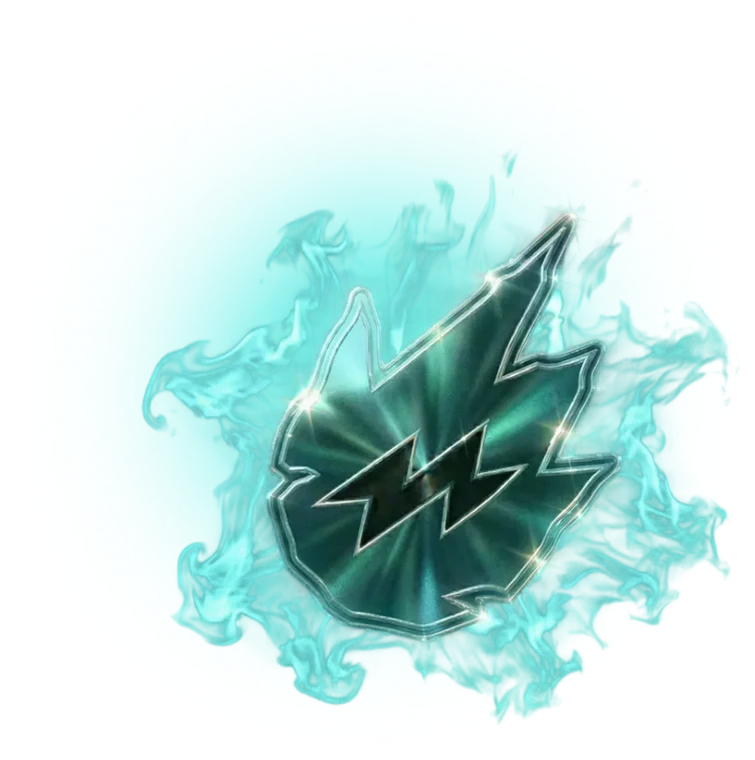
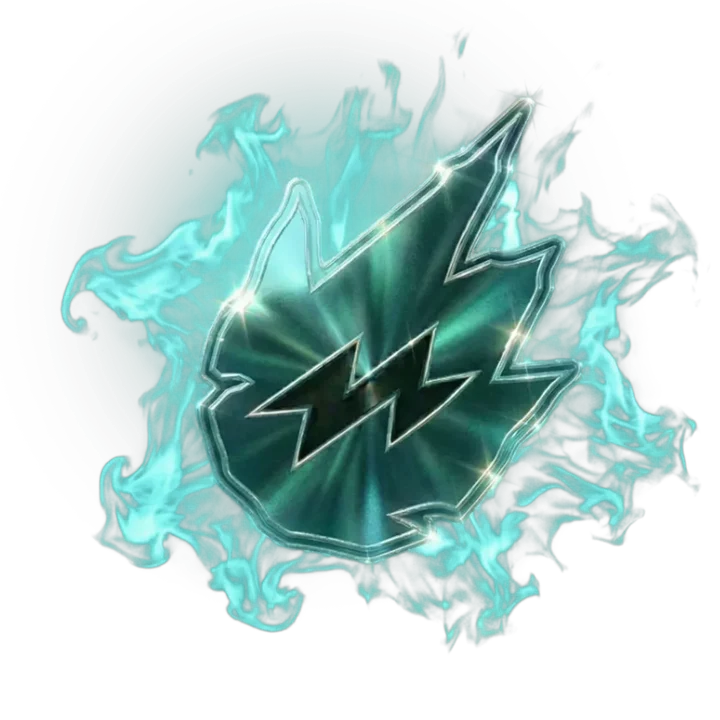
Экраны наград: пульсирующее свечение вместо огня, эмблема по центру

diff --git a/src/components/Glow.module.css b/src/components/Glow.module.css
@@ -1,0 +1,73 @@
+.glow {
+  position: absolute;
+  left: 50%;
+  top: 50%;
+  width: min(440px, 112%);
+  aspect-ratio: 1;
+  translate: -50% -50%;
+  pointer-events: none;
+}
+
+/* мягкий бирюзовый ореол, дышит */
+.core {
+  position: absolute;
+  inset: 0;
+  border-radius: 50%;
+  background: radial-gradient(closest-side, color-mix(in srgb, var(--accent) 62%, transparent), color-mix(in srgb, var(--accent) 22%, transparent) 48%, transparent 74%);
+  animation:
+    appear 700ms cubic-bezier(0.23, 1, 0.32, 1) both,
+    breathe 2.4s ease-in-out 700ms infinite alternate;
+}
+
+@keyframes appear {
+  from {
+    opacity: 0;
+    scale: 0.6;
+  }
+}
+
+@keyframes breathe {
+  from {
+    opacity: 0.65;
+    scale: 0.92;
+  }
+  to {
+    opacity: 1;
+    scale: 1.06;
+  }
+}
+
+/* одна вспышка в момент появления награды */
+.flash {
+  position: absolute;
+  inset: 22%;
+  border-radius: 50%;
+  background: radial-gradient(closest-side, #fff, color-mix(in srgb, var(--accent) 60%, transparent) 45%, transparent);
+  opacity: 0;
+  animation: flash 900ms cubic-bezier(0.23, 1, 0.32, 1) 120ms both;
+}
+
+@keyframes flash {
+  0% {
+    opacity: 0;
+    scale: 0.4;
+  }
+  18% {
+    opacity: 0.9;
+  }
+  100% {
+    opacity: 0;
+    scale: 2.2;
+  }
+}
+
+@media (prefers-reduced-motion: reduce) {
+  .core,
+  .flash {
+    animation: none;
+  }
+
+  .flash {
+    display: none;
+  }
+}

diff --git a/src/screens/Games/Result.tsx b/src/screens/Games/Result.tsx
@@ -1,7 +1,8 @@
 import { useEffect, useRef, useState } from 'react'
 import { useNavigate } from 'react-router'
 import { Button } from '../../components/Button'
-import { Fire, type FireState } from '../../components/Fire'
+import { type FireState } from '../../components/Fire'
+import { Glow } from '../../components/Glow'
 import { Icon } from '../../components/Icon'
 import { LiquidBar } from '../../components/LiquidBar'
 import { Rewards } from '../../components/Rewards'
@@ -47,7 +48,7 @@ export function Result({ game, run, onAgain }: Props) {
   return (
     <main ref={root} className={s.screen} data-win={win || undefined}>
       <div className={s.stage}>
-        {win && <Fire state={fire} className={s.fire} />}
+        {win && <Glow />}
         <img ref={art} className={s.art} src={win ? '/assets/rewards/emblem.webp' : '/assets/rewards/sad.webp'} alt="" />
       </div>
       <h1 className={s.title}>{win ? 'Классное прохождение' : 'Не вышло'}</h1>

diff --git a/src/screens/Shop/Done.tsx b/src/screens/Shop/Done.tsx
@@ -1,7 +1,8 @@
 import { useEffect, useRef } from 'react'
 import { Navigate, useNavigate } from 'react-router'
 import { Button } from '../../components/Button'
-import { Fire, type FireState } from '../../components/Fire'
+import { type FireState } from '../../components/Fire'
+import { Glow } from '../../components/Glow'
 import { useStore } from '../../data/store'
 import { haptic, tween } from '../../lib/motion'
 import { sparks } from '../../lib/sparks'
@@ -29,7 +30,7 @@ export function Done() {
   return (
     <main ref={root} className={s.screen}>
       <div className={s.stage}>
-        <Fire state={fire} className={s.fire} />
+        <Glow />
         <img ref={art} className={s.art} src="/assets/rewards/emblem.webp" alt="" />
         <span className={s.tape} data-back aria-hidden>
           <i />

diff --git a/src/components/RewardScreen.tsx b/src/components/RewardScreen.tsx
@@ -8,6 +8,7 @@ import { sparks } from '../lib/sparks'
 import { Amount } from './Amount'
 import { Button } from './Button'
 import { Fire, type FireState } from './Fire'
+import { Glow } from './Glow'
 import { Rewards } from './Rewards'
 import s from './RewardScreen.module.css'
 
@@ -96,7 +97,7 @@ export function RewardScreen({ title, reward, before, after, image, photo, actio
         </span>
       </header>
       <div className={s.stage}>
-        <Fire state={fire} className={s.fire} />
+        {image ? <Fire state={fire} className={s.fire} /> : <Glow />}
         <img ref={art} className={s.art} src={image ?? '/assets/rewards/emblem.webp'} alt="" data-item={image ? '' : undefined} data-photo={photo || undefined} />
       </div>
       <h1 className={s.title}>Награда твоя</h1>

diff --git a/src/components/Glow.tsx b/src/components/Glow.tsx
@@ -1,0 +1,11 @@
+import s from './Glow.module.css'
+
+/** Свечение за наградой вместо огня: вспышка при появлении, потом мягко пульсирует */
+export function Glow({ className = '' }: { className?: string }) {
+  return (
+    <span className={`${s.glow} ${className}`} aria-hidden>
+      <span className={s.core} />
+      <span className={s.flash} />
+    </span>
+  )
+}
